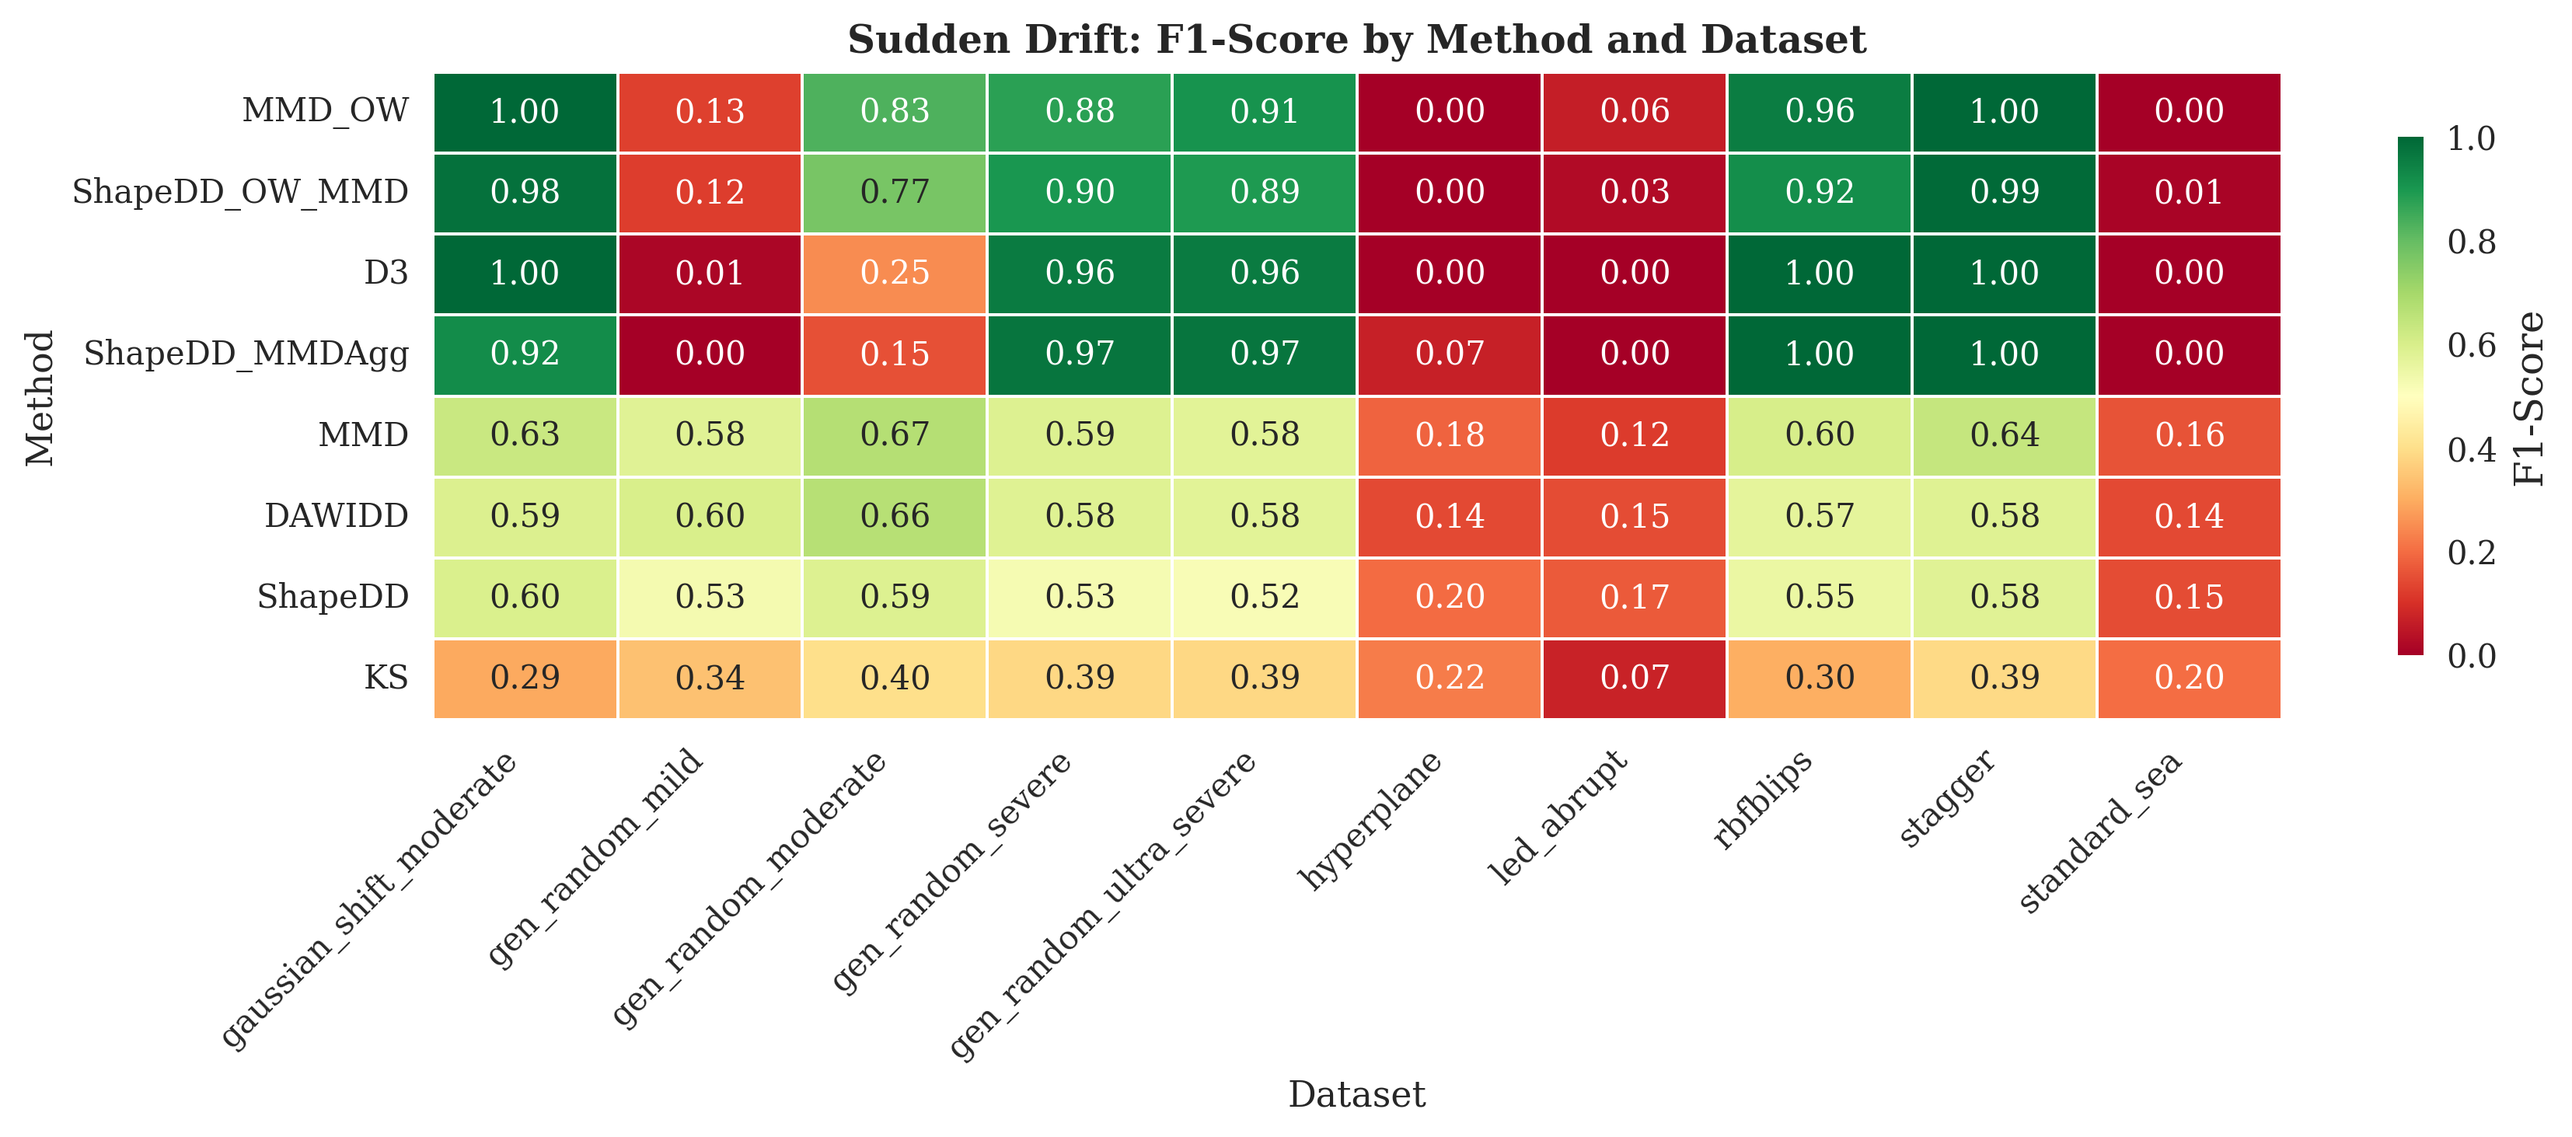
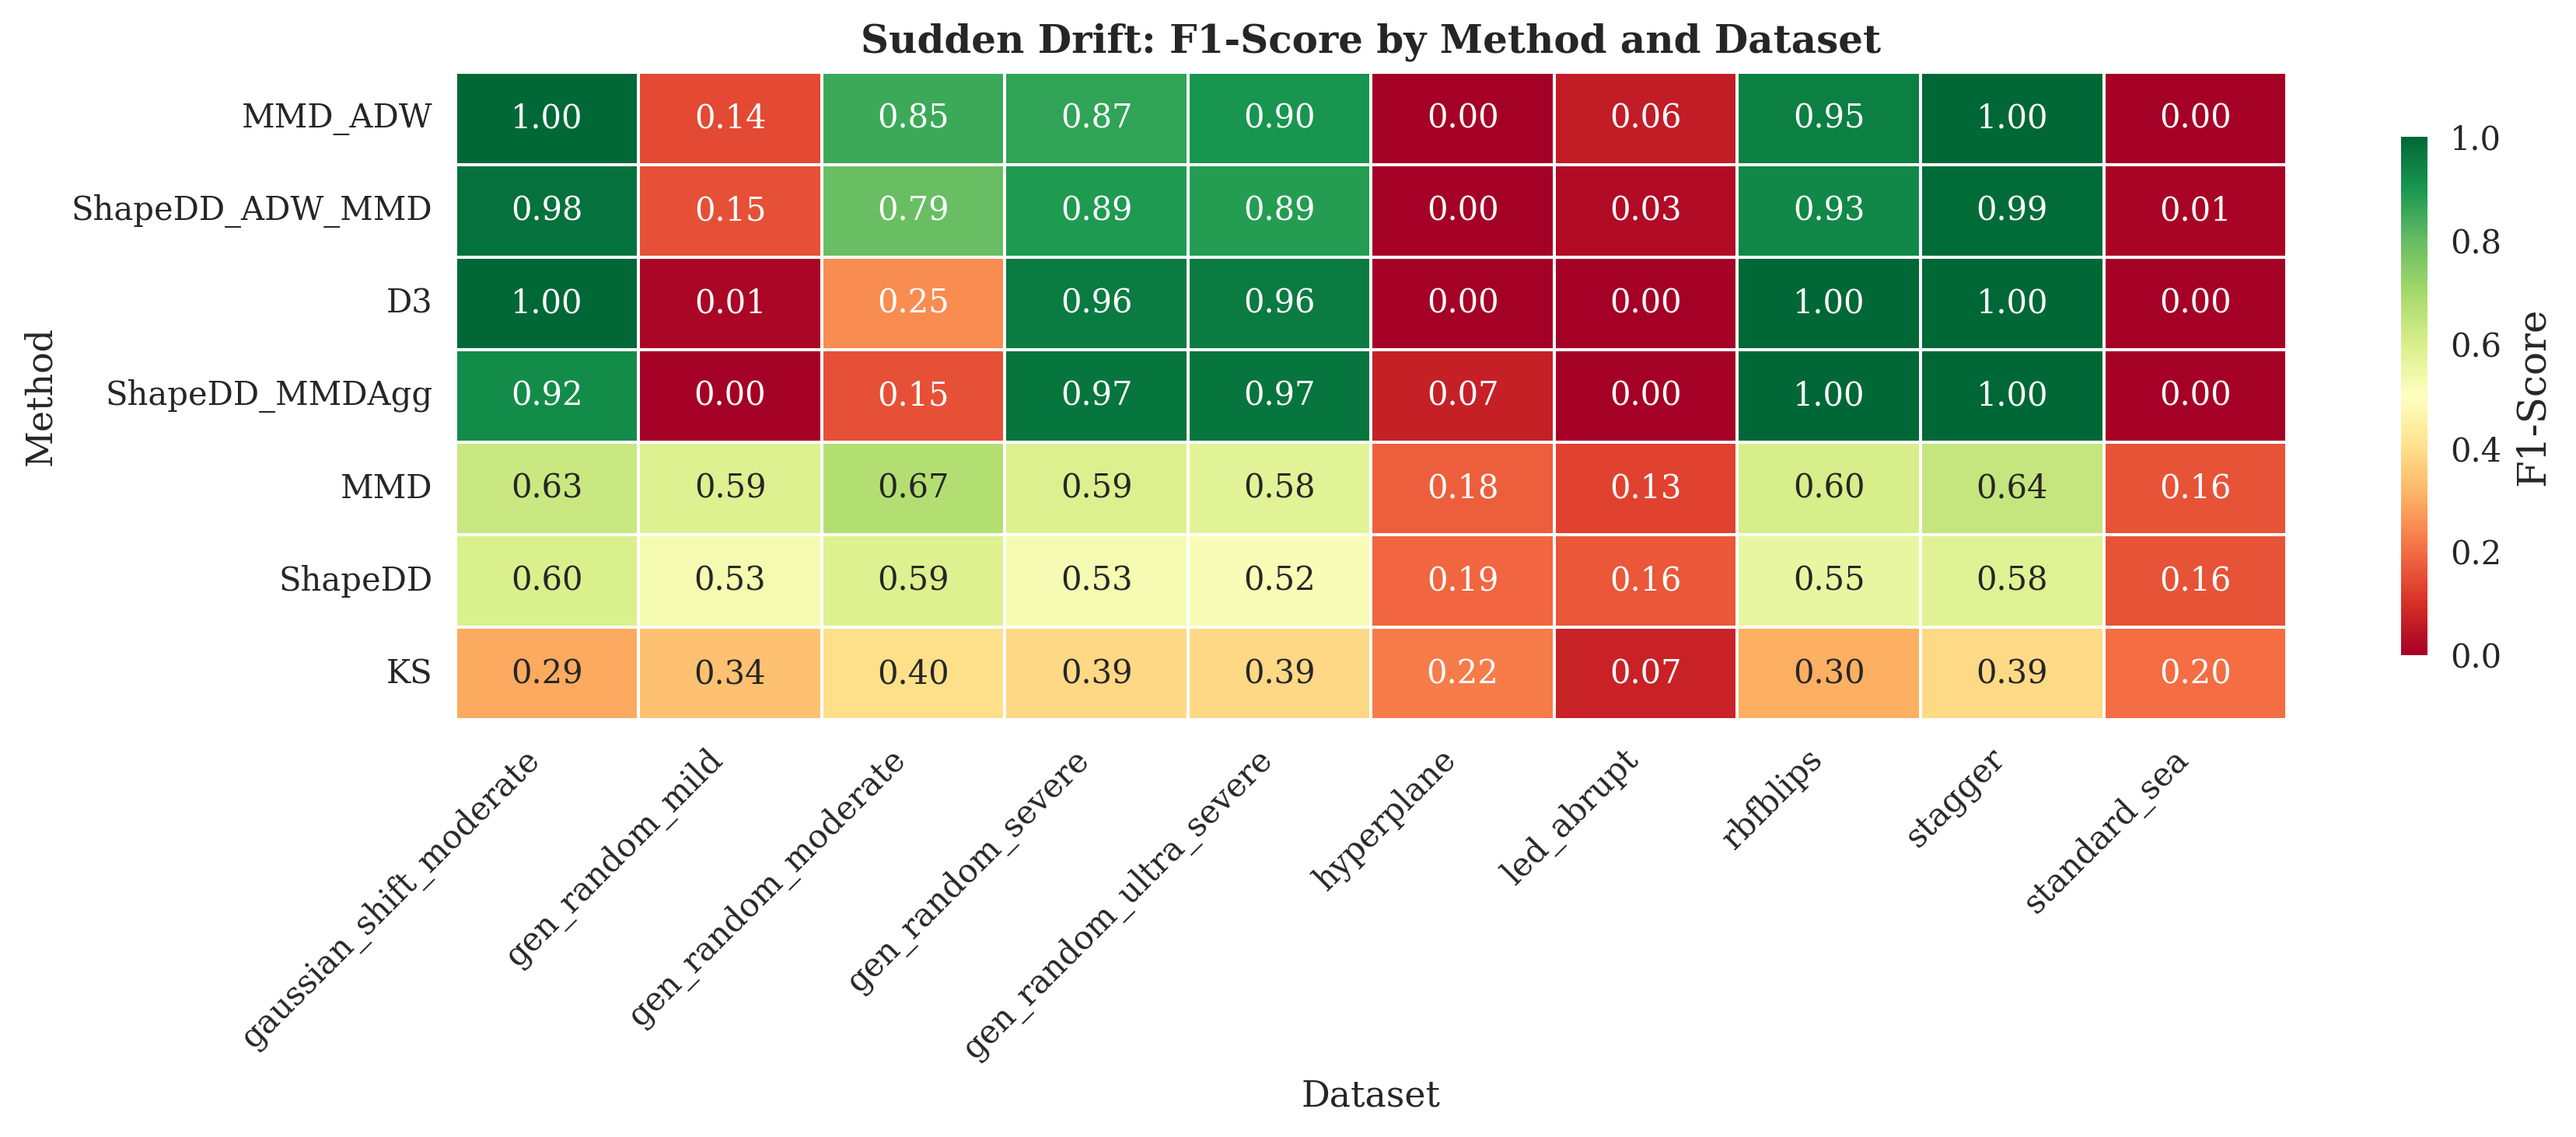
update latest results (need to fix the format naming and stuffs)

diff --git a/experiments/drift_detection_benchmark/publication_figures/table_II_f1_by_dataset.tex b/experiments/drift_detection_benchmark/publication_figures/table_II_f1_by_dataset.tex
@@ -1,21 +1,38 @@
 \begin{table}[htbp]
-	\caption[Chi tiết F1-Score theo tập dữ liệu]{Chi tiết F1-Score theo từng phương pháp và tập dữ liệu. Điểm tốt nhất mỗi cột được in đậm. Các phương pháp được xếp hạng theo F1-Score trung bình.}
-	\label{tab:f1_by_dataset}
-	\resizebox{\textwidth}{!}{
-	\begin{tabular}{clccccccccccc}
-		\toprule
-		Dataset          & Rank & gaussian\_shift\_moderate & gen\_random\_mild & gen\_random\_moderate & gen\_random\_severe & gen\_random\_ultra\_severe & hyperplane     & led\_abrupt    & rbfblips       & stagger        & standard\_sea  & Mean           \\
-		Method           &      &                           &                   &                       &                     &                            &                &                &                &                &                &                \\
-		\midrule
-		MMD\_OW          & 1    & \textbf{0.998}            & 0.126             & \textbf{0.830}        & 0.876               & 0.907                      & 0.000          & 0.063          & 0.956          & 0.998          & 0.000          & \textbf{0.575} \\
-		ShapeDD\_OW\_MMD & 2    & 0.980                     & 0.121             & 0.772                 & 0.899               & 0.892                      & 0.000          & 0.026          & 0.920          & 0.994          & 0.012          & 0.562          \\
-		D3               & 3    & \textbf{0.998}            & 0.012             & 0.249                 & 0.959               & 0.959                      & 0.000          & 0.000          & \textbf{1.000} & 0.998          & 0.000          & 0.518          \\
-		ShapeDD\_MMDAgg  & 4    & 0.924                     & 0.000             & 0.154                 & \textbf{0.973}      & \textbf{0.971}             & 0.067          & 0.000          & \textbf{1.000} & \textbf{1.000} & 0.000          & 0.509          \\
-		MMD              & 5    & 0.629                     & 0.581             & 0.672                 & 0.590               & 0.577                      & 0.184          & 0.118          & 0.604          & 0.639          & 0.157          & 0.475          \\
-		DAWIDD           & 6    & 0.592                     & \textbf{0.598}    & 0.664                 & 0.584               & 0.577                      & 0.141          & 0.145          & 0.570          & 0.585          & 0.141          & 0.460          \\
-		ShapeDD          & 7    & 0.597                     & 0.531             & 0.588                 & 0.526               & 0.517                      & 0.196          & \textbf{0.171} & 0.553          & 0.581          & 0.145          & 0.440          \\
-		KS               & 8    & 0.294                     & 0.337             & 0.402                 & 0.385               & 0.385                      & \textbf{0.224} & 0.073          & 0.301          & 0.389          & \textbf{0.200} & 0.299          \\
-		\bottomrule
-	\end{tabular}
-	}
+\caption{F1-Score by dataset (Part 1/2).}
+\label{tab:f1_by_dataset_part1}
+\begin{tabular}{clcccccc}
+\toprule
+Dataset & Rank & electricity_semisynthetic & gaussian_shift_moderate & gen_random_mild & gen_random_moderate & gen_random_severe & Mean \\
+Method &  &  &  &  &  &  &  \\
+\midrule
+MMD_ADW & 1 & 0.242 & \textbf{0.998} & 0.144 & \textbf{0.855} & 0.871 & \textbf{0.548} \\
+ShapeDD_ADW_MMD & 2 & \textbf{0.278} & 0.980 & 0.154 & 0.793 & 0.894 & 0.540 \\
+D3 & 3 & 0.194 & \textbf{0.998} & 0.012 & 0.249 & 0.959 & 0.488 \\
+ShapeDD_MMDAgg & 4 & 0.143 & 0.924 & 0.000 & 0.154 & \textbf{0.973} & 0.476 \\
+MMD & 5 & 0.235 & 0.631 & \textbf{0.587} & 0.674 & 0.590 & 0.455 \\
+ShapeDD & 6 & 0.208 & 0.597 & 0.530 & 0.588 & 0.525 & 0.420 \\
+KS & 7 & 0.183 & 0.294 & 0.337 & 0.402 & 0.385 & 0.288 \\
+\bottomrule
+\end{tabular}
+\end{table}
+
+
+\begin{table}[htbp]
+\caption{F1-Score by dataset (Part 2/2).}
+\label{tab:f1_by_dataset_part2}
+\begin{tabular}{clccccccc}
+\toprule
+Dataset & Rank & gen_random_ultra_severe & hyperplane & led_abrupt & rbfblips & stagger & standard_sea & Mean \\
+Method &  &  &  &  &  &  &  &  \\
+\midrule
+MMD_ADW & 1 & 0.904 & 0.000 & 0.062 & 0.951 & 0.998 & 0.000 & \textbf{0.548} \\
+ShapeDD_ADW_MMD & 2 & 0.886 & 0.000 & 0.026 & 0.930 & 0.990 & 0.011 & 0.540 \\
+D3 & 3 & 0.959 & 0.000 & 0.000 & \textbf{1.000} & 0.998 & 0.000 & 0.488 \\
+ShapeDD_MMDAgg & 4 & \textbf{0.971} & 0.067 & 0.000 & \textbf{1.000} & \textbf{1.000} & 0.000 & 0.476 \\
+MMD & 5 & 0.577 & 0.177 & 0.130 & 0.604 & 0.640 & 0.159 & 0.455 \\
+ShapeDD & 6 & 0.517 & 0.189 & \textbf{0.165} & 0.555 & 0.585 & 0.157 & 0.420 \\
+KS & 7 & 0.385 & \textbf{0.224} & 0.073 & 0.301 & 0.389 & \textbf{0.200} & 0.288 \\
+\bottomrule
+\end{tabular}
 \end{table}

diff --git a/experiments/drift_detection_benchmark/publication_figures/table_III_runtime_stats.tex b/experiments/drift_detection_benchmark/publication_figures/table_III_runtime_stats.tex
@@ -1,19 +1,18 @@
 \begin{table}[htbp]
-	\caption[Thống kê thời gian và thông lượng]{Thống kê thời gian thực thi và thông lượng (mẫu/giây) của các phương pháp.}
-	\label{tab:runtime_stats}
-	\begin{tabular}{lccccc}
-		\toprule
-		                 & Mean (s) & Std (s)  & Min (s)  & Max (s)  & Throughput (samples/s) \\
-		Method           &          &          &          &          &                        \\
-		\midrule
-		ShapeDD\_OW\_MMD & 0.198500 & 0.042600 & 0.159600 & 0.387400 & 50378                  \\
-		MMD\_OW          & 0.203100 & 0.038700 & 0.161400 & 0.388200 & 49237                  \\
-		KS               & 0.359700 & 0.122700 & 0.176700 & 0.929700 & 27801                  \\
-		D3               & 0.372800 & 0.075200 & 0.316500 & 0.767900 & 26824                  \\
-		MMD              & 1.296800 & 0.441000 & 0.410500 & 3.963500 & 7711                   \\
-		ShapeDD          & 1.430500 & 0.658700 & 0.609300 & 5.932500 & 6991                   \\
-		ShapeDD\_MMDAgg  & 1.675100 & 0.306400 & 1.371000 & 3.112300 & 5970                   \\
-		DAWIDD           & 2.715000 & 0.449600 & 2.079400 & 5.805600 & 3683                   \\
-		\bottomrule
-	\end{tabular}
+\caption{Runtime statistics by detection method. Throughput = samples processed per second.}
+\label{tab:runtime_stats}
+\begin{tabular}{lccccc}
+\toprule
+ & Mean (s) & Std (s) & Min (s) & Max (s) & Throughput (samples/s) \\
+Method &  &  &  &  &  \\
+\midrule
+ShapeDD_ADW_MMD & 0.202200 & 0.057100 & 0.154700 & 0.485500 & 49456 \\
+MMD_ADW & 0.205500 & 0.052300 & 0.158200 & 0.454100 & 48662 \\
+KS & 0.356600 & 0.124900 & 0.171300 & 1.152700 & 28043 \\
+D3 & 0.373000 & 0.113600 & 0.308400 & 0.992600 & 26810 \\
+MMD & 1.221600 & 0.673300 & 0.289100 & 3.904200 & 8186 \\
+ShapeDD & 1.561900 & 0.739900 & 0.501700 & 4.305900 & 6402 \\
+ShapeDD_MMDAgg & 1.828900 & 0.473900 & 1.465500 & 3.846300 & 5468 \\
+\bottomrule
+\end{tabular}
 \end{table}

diff --git a/experiments/drift_detection_benchmark/publication_figures/table_IV_statistical_significance.tex b/experiments/drift_detection_benchmark/publication_figures/table_IV_statistical_significance.tex
@@ -1,20 +1,20 @@
 \begin{table}[htbp]
-	\caption[Xếp hạng phương pháp (Friedman-Nemenyi)]{Xếp hạng phương pháp và ý nghĩa thống kê (kiểm định Friedman-Nemenyi, $\alpha=0.05$). Các phương pháp được nối bởi thanh ngang trong biểu đồ CD là không có sự khác biệt ý nghĩa.}
-	\label{tab:statistical_significance}
-	\begin{tabular}{lcc}
-		\toprule
-		Method           & Average Rank & Rank               \\
-		\midrule
-		MMD\_OW          & 3.864        & 1                  \\
-		MMD              & 3.955        & 2                  \\
-		ShapeDD\_MMDAgg  & 4.409        & 3                  \\
-		ShapeDD\_OW\_MMD & 4.409        & 4                  \\
-		DAWIDD           & 4.500        & 5                  \\
-		D3               & 4.591        & 6                  \\
-		ShapeDD          & 4.773        & 7                  \\
-		KS               & 5.500        & 8                  \\
-		\midrule
-		\multicolumn{3}{l}{Critical Difference (CD) = 3.166} \\
-		\bottomrule
-	\end{tabular}
+\caption{Method rankings and statistical significance (Friedman-Nemenyi test, $\alpha$=0.05).
+Methods connected by bars in the CD diagram are not significantly different.}
+\label{tab:statistical_significance}
+\begin{tabular}{lcc}
+\toprule
+Method & Average Rank & Rank \\
+\midrule
+MMD_ADW & 3.417 & 1 \\
+MMD & 3.583 & 2 \\
+ShapeDD_ADW_MMD & 3.667 & 3 \\
+D3 & 4.167 & 4 \\
+ShapeDD_MMDAgg & 4.167 & 5 \\
+ShapeDD & 4.167 & 6 \\
+KS & 4.833 & 7 \\
+\midrule
+\multicolumn{3}{l}{Critical Difference (CD) = 2.601} \\
+\bottomrule
+\end{tabular}
 \end{table}

diff --git a/report/latex/tables/table_comparison_aggregate.tex b/report/latex/tables/table_comparison_aggregate.tex
@@ -1,9 +1,17 @@
-\begin{tabular}{|l|c|c|c|c|c|c|}
-	\hline
-	\textbf{Method}       & \textbf{CAT Acc} & \textbf{SUB Acc} & \textbf{EDR$\uparrow$} & \textbf{MDR$\downarrow$} & \textbf{FP} & \textbf{Supervised} \\
-	\hline
-	CDT\_MSW              & 40.0\%           & 16.0\%           & 0.058                  & 0.942                    & 91          & Yes                 \\
-	\textbf{SE-CDT (Std)} & \textbf{74.6\%}  & \textbf{42.0\%}  & \textbf{0.928}         & \textbf{0.072}           & 1419        & No                  \\
-	SE-CDT (ADW)          & 74.6\%           & 42.0\%           & 0.532                  & 0.468                    & 302         & No                  \\
-	\hline
+\begin{table}[htbp]
+\caption{Aggregate performance metrics averaged across all datasets. Best values are bolded.}
+\label{tab:comparison_aggregate}
+\begin{tabular}{lccccc}
+\toprule
+Method & Precision & Recall (EDR) & F1-Score & Delay & False Pos. \\
+\midrule
+MMD_ADW & \textbf{0.589} & 0.567 & \textbf{0.548} & 24 & 2.5 \\
+ShapeDD_ADW_MMD & 0.587 & 0.557 & 0.540 & 22 & 2.6 \\
+D3 & 0.553 & 0.474 & 0.488 & \textbf{16} & 0.9 \\
+ShapeDD_MMDAgg & 0.534 & 0.468 & 0.476 & 22 & \textbf{0.6} \\
+MMD & 0.349 & 0.721 & 0.455 & 32 & 14.3 \\
+ShapeDD & 0.305 & 0.736 & 0.420 & 31 & 18.0 \\
+KS & 0.188 & \textbf{0.796} & 0.289 & 29 & 36.6 \\
+\bottomrule
 \end{tabular}
+\end{table}
